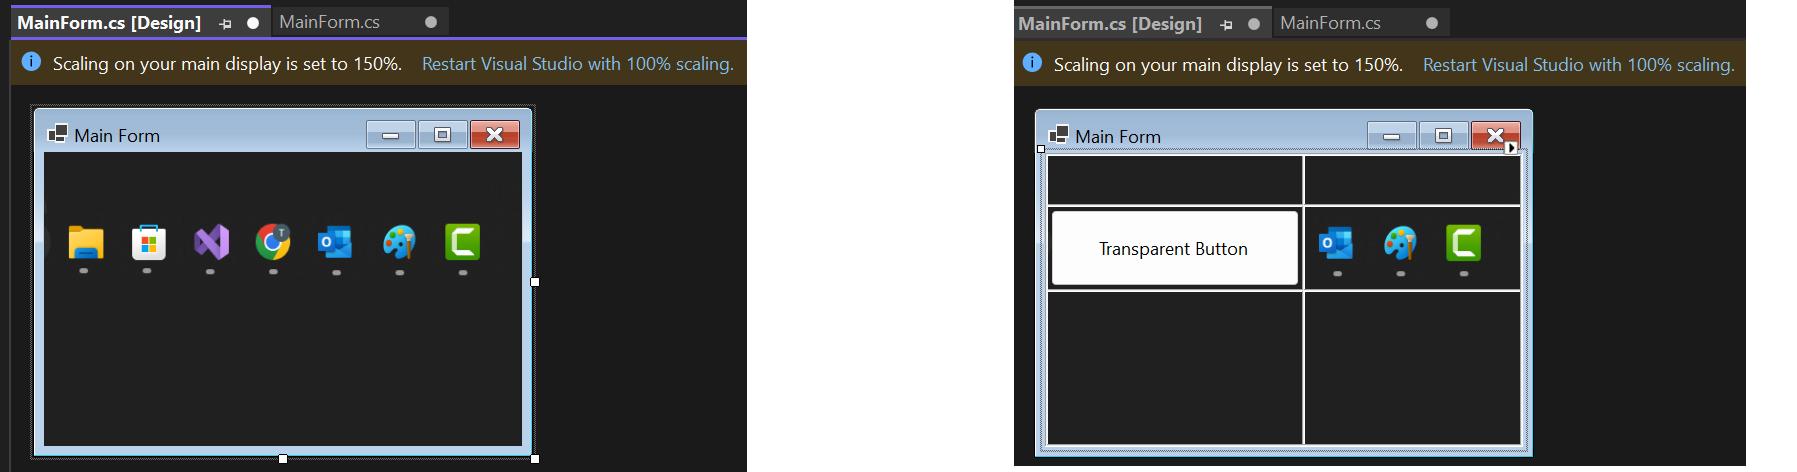
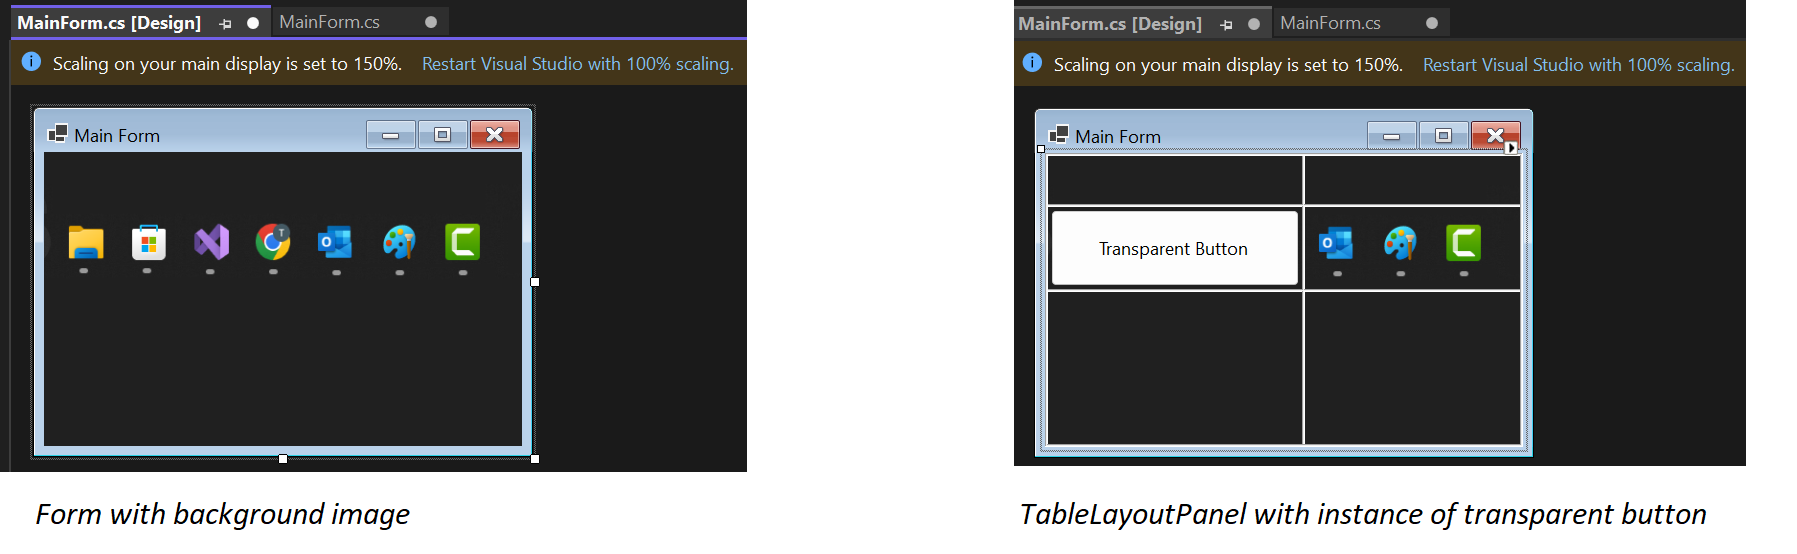
RC

diff --git a/transparent-button-00/MainForm.cs b/transparent-button-00/MainForm.cs
@@ -57,7 +57,6 @@ namespace transparent_button_00
             { 
                 captureBackground();
             }
-            Task.Delay(5000).GetAwaiter().OnCompleted(() => OnMouseHover(EventArgs.Empty));
         }
 
         [Browsable(false)]

diff --git a/README.md b/README.md
@@ -1,6 +1,10 @@
-As anyone who has ever had to cloak a starship knows, one way to make something "invisible" is to paint its surface to look like what's behind it. To experiment with this, start with a main form that has a background image as a `Stretch` layout. Then overlay a `TableLayoutPanel` whose job it is to keep the button scaled correctly as the form resizes. Finally, place an instance of `TransparentButton` in one of the cells.
+One way to make something "invisible" is to paint its surface to look like what's behind it. To experiment with this, start with a main form that has a background image as a `Stretch` layout. Then overlay a `TableLayoutPanel` whose job it is to keep the button scaled correctly as the form resizes and could for the basis for some image-mapping.  Finally, place an instance of `TransparentButton` in one of the cells. Here are the steps in the form designer:
 
-Here's an example of a class that responds to `SizeChanged` events by capturing a bitmap of the designated HostControl.
+![designer]()
+
+The `TransparentButton` class responds to `SizeChanged` events by capturing a bitmap of the designated HostControl. At runtime, the `OnPaint` method draws the background where the button is supposed to be. But even though it's "invisible", clicking on the camoflauged button still raises the click. The code below is a proof of concept only. One would definitely want to do more rigorous testing than I have.
+
+
 
     class TransparentButton : Button
     {
@@ -14,6 +18,9 @@ Here's an example of a class that responds to `SizeChanged` events by capturing 
             }
             Task.Delay(5000).GetAwaiter().OnCompleted(() => OnMouseHover(EventArgs.Empty));
         }
+
+This property provides some flexibility for where the background is clipped.
+
         Control? _hostContainer = null;
         public Control? HostContainer
         {
@@ -30,6 +37,10 @@ Here's an example of a class that responds to `SizeChanged` events by capturing 
                 }
             }
         }
+
+Take a snapshot of the background.
+
+        private Bitmap? _chameleon = null;
         private void captureBackground()
         {
             if (HostContainer != null)
@@ -40,13 +51,11 @@ Here's an example of a class that responds to `SizeChanged` events by capturing 
                 // Draw the full container
                 var tmp = (Bitmap)new Bitmap(HostContainer.Width, HostContainer.Height);
                 HostContainer.DrawToBitmap(tmp, new Rectangle(0, 0, HostContainer.Width, HostContainer.Height));
-
-                // S A V E    f o r    D E B U G
-                // tmp.Save("tmp.bmp");
-                // Process.Start("explorer.exe", "tmp.bmp");
-
+                
                 if(HostContainer is Form form)
                 {
+                    // Metrics are a little trickier because ClientRectangle
+                    // is offset from the location and smaller than width/height.
                     var ptScreen = HostContainer.PointToScreen(HostContainer.ClientRectangle.Location);
                     var ptOffset = new Point(
                         ptScreen.X - HostContainer.Location.X,
@@ -63,16 +72,13 @@ Here's an example of a class that responds to `SizeChanged` events by capturing 
                         Bounds,
                         System.Drawing.Imaging.PixelFormat.DontCare);
                 }
-
-                // S A V E    f o r    D E B U G
-                //_chameleon.Save("chm.bmp");
-                //Process.Start("explorer.exe", "chm.bmp");
-
                 // Show this button.
                 Visible = true;
             }
         }
-        private Bitmap? _chameleon = null;
+
+Do not call the base class Paint. Draw the snipped image instead.
+
         protected override void OnPaint(PaintEventArgs e)
         {
             if (DesignMode)
@@ -92,6 +98,9 @@ Here's an example of a class that responds to `SizeChanged` events by capturing 
                 }
             }
         }
+
+Tool tip
+
         protected override void OnMouseHover(EventArgs e)
         {
             base.OnMouseHover(e);
@@ -107,4 +116,54 @@ Here's an example of a class that responds to `SizeChanged` events by capturing 
             }
         }
         private static ToolTip ToolTip { get; } = new ToolTip();
+    }
+
+    ***
+    **Test**
+
+    Here's the code I used to test this answer. 
+
+    enum HostForTesting
+    {
+        MainForm,
+        TableLayoutPanel,
+    }
+    public partial class MainForm : Form
+    {
+        public MainForm() => InitializeComponent();
+
+        // Determine which control to use for the background.
+        HostForTesting HostForTesting => HostForTesting.MainForm;
+       
+        protected override void OnLoad(EventArgs e)
+        {
+            base.OnLoad(e);
+
+            switch (HostForTesting)
+            {
+                case HostForTesting.MainForm:
+                    buttonTransparent.HostContainer = this;
+                    break;
+                case HostForTesting.TableLayoutPanel:
+                    tableLayoutPanel.BackgroundImage = BackgroundImage;
+                    tableLayoutPanel.BackgroundImageLayout = BackgroundImageLayout;
+                    buttonTransparent.HostContainer = tableLayoutPanel;
+                    break;
+            }
+            buttonTransparent.Click += onClickTransparent;
+        }
+        private void onClickTransparent(object? sender, EventArgs e)
+        {
+            MessageBox.Show("Clicked!");
+        }
+        protected override CreateParams CreateParams
+        {
+            get
+            {
+                // https://stackoverflow.com/a/36352503/5438626
+                CreateParams cp = base.CreateParams;
+                cp.ExStyle |= 0x02000000;  // Turn on WS_EX_COMPOSITED
+                return cp;
+            }
+        }
     }
